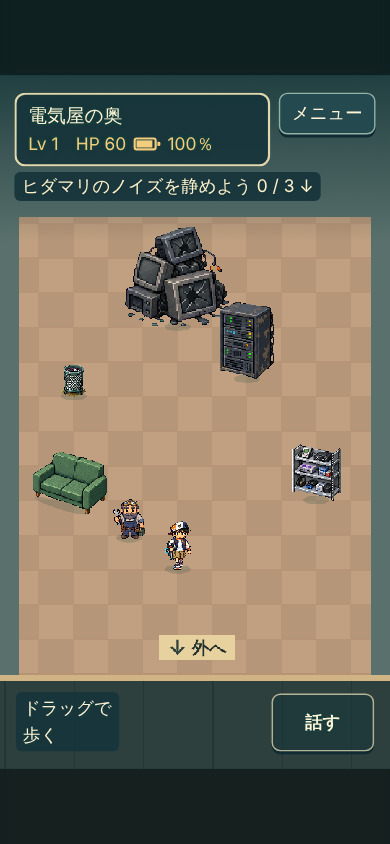
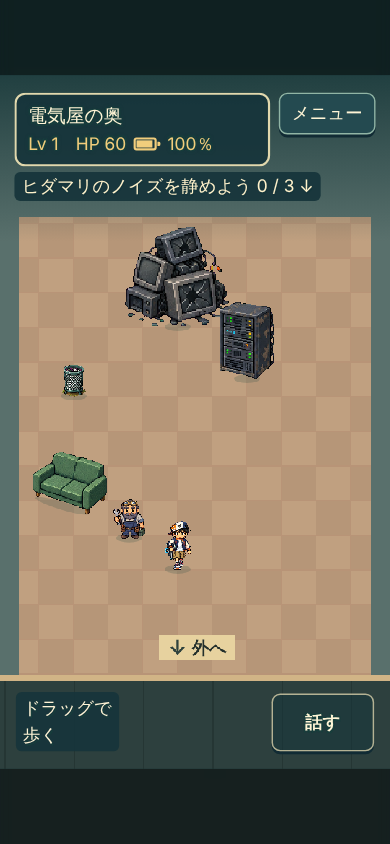
R672: 電気屋の奥の小さいテレビの山を外し、修理の机の絵を絵係に頼んだ

Changed region(s): [[0.7385, 0.5237, 0.8923, 0.6161]]

diff --git a/autodev/ROADMAP.md b/autodev/ROADMAP.md
@@ -678,7 +678,7 @@
 - [x] R669 | 図書館の受付がコンビニのレジ机と同じ絵で店に見えたので外し、図書館用の受付の絵を絵係に頼んだ | tools/smoke_v5.cjs で全章を通し、スクショを確認役に見せて気になる所を挙げさせ、一番大きい1つを直す。直した所の前と後のスクショがある
 - [x] R670 | 届いた図書館用の受付の机を置く | library_desk の絵が届いたら minamo_library に受付の机（frame 0）を道をふさがずに置き、テストで机があることと入口から離れていることを確かめる。届かない間は置かない。前と後のスクショがある
 - [x] R671 | 図書館の雑誌の棚がコンビニと同じ絵で店に見えたので、届いた図書館用の絵本の棚にした | tools/smoke_v5.cjs で全章を通し、スクショを確認役に見せて気になる所を挙げさせ、一番大きい1つを直す。直した所の前と後のスクショがある
-- [x] R672 | 電気屋の奥にボスと同じテレビの山が小さくもう1つあり、どれを調べるか迷うので、部品の棚にした | tools/smoke_v5.cjs で全章を通し、スクショを確認役に見せて気になる所を挙げさせ、一番大きい1つを直す。直した所の前と後のスクショがある
+- [x] R672 | 電気屋の奥にボスと同じテレビの山が小さくもう1つあり、どれを調べるか迷うので外し、修理の机の絵を絵係に頼んだ | tools/smoke_v5.cjs で全章を通し、スクショを確認役に見せて気になる所を挙げさせ、一番大きい1つを直す。直した所の前と後のスクショがある
 
 ## くりかえし
 

diff --git a/autodev/last_run.md b/autodev/last_run.md
@@ -1,6 +1,6 @@
 - 電気屋の奥に、ボスと同じテレビの山が小さくもう1つあった
-- 小さい方を部品の金属の棚にし、テレビの山はボスだけにした
-- テストに棚の確認を足し、前と後のスクショを docs/shots/R672 に置いた
-次: 友達の家のテレビとソファが自分の部屋・電気屋と同じ絵なので見直す
+- 小さい方を外し、テレビの山はボスの1つだけにした
+- 空いた所に置く修理の机の絵を絵係に頼み、前と後のスクショを置いた
+次: 修理の机の絵が届いたら電気屋の奥の右に置く
 時刻: 2026-11-21 22:42
 迷った点: 鍵の枝 claude/ryw-lock への push はルーチンの決まりで止められたので、鍵なしで進めた（R493）
